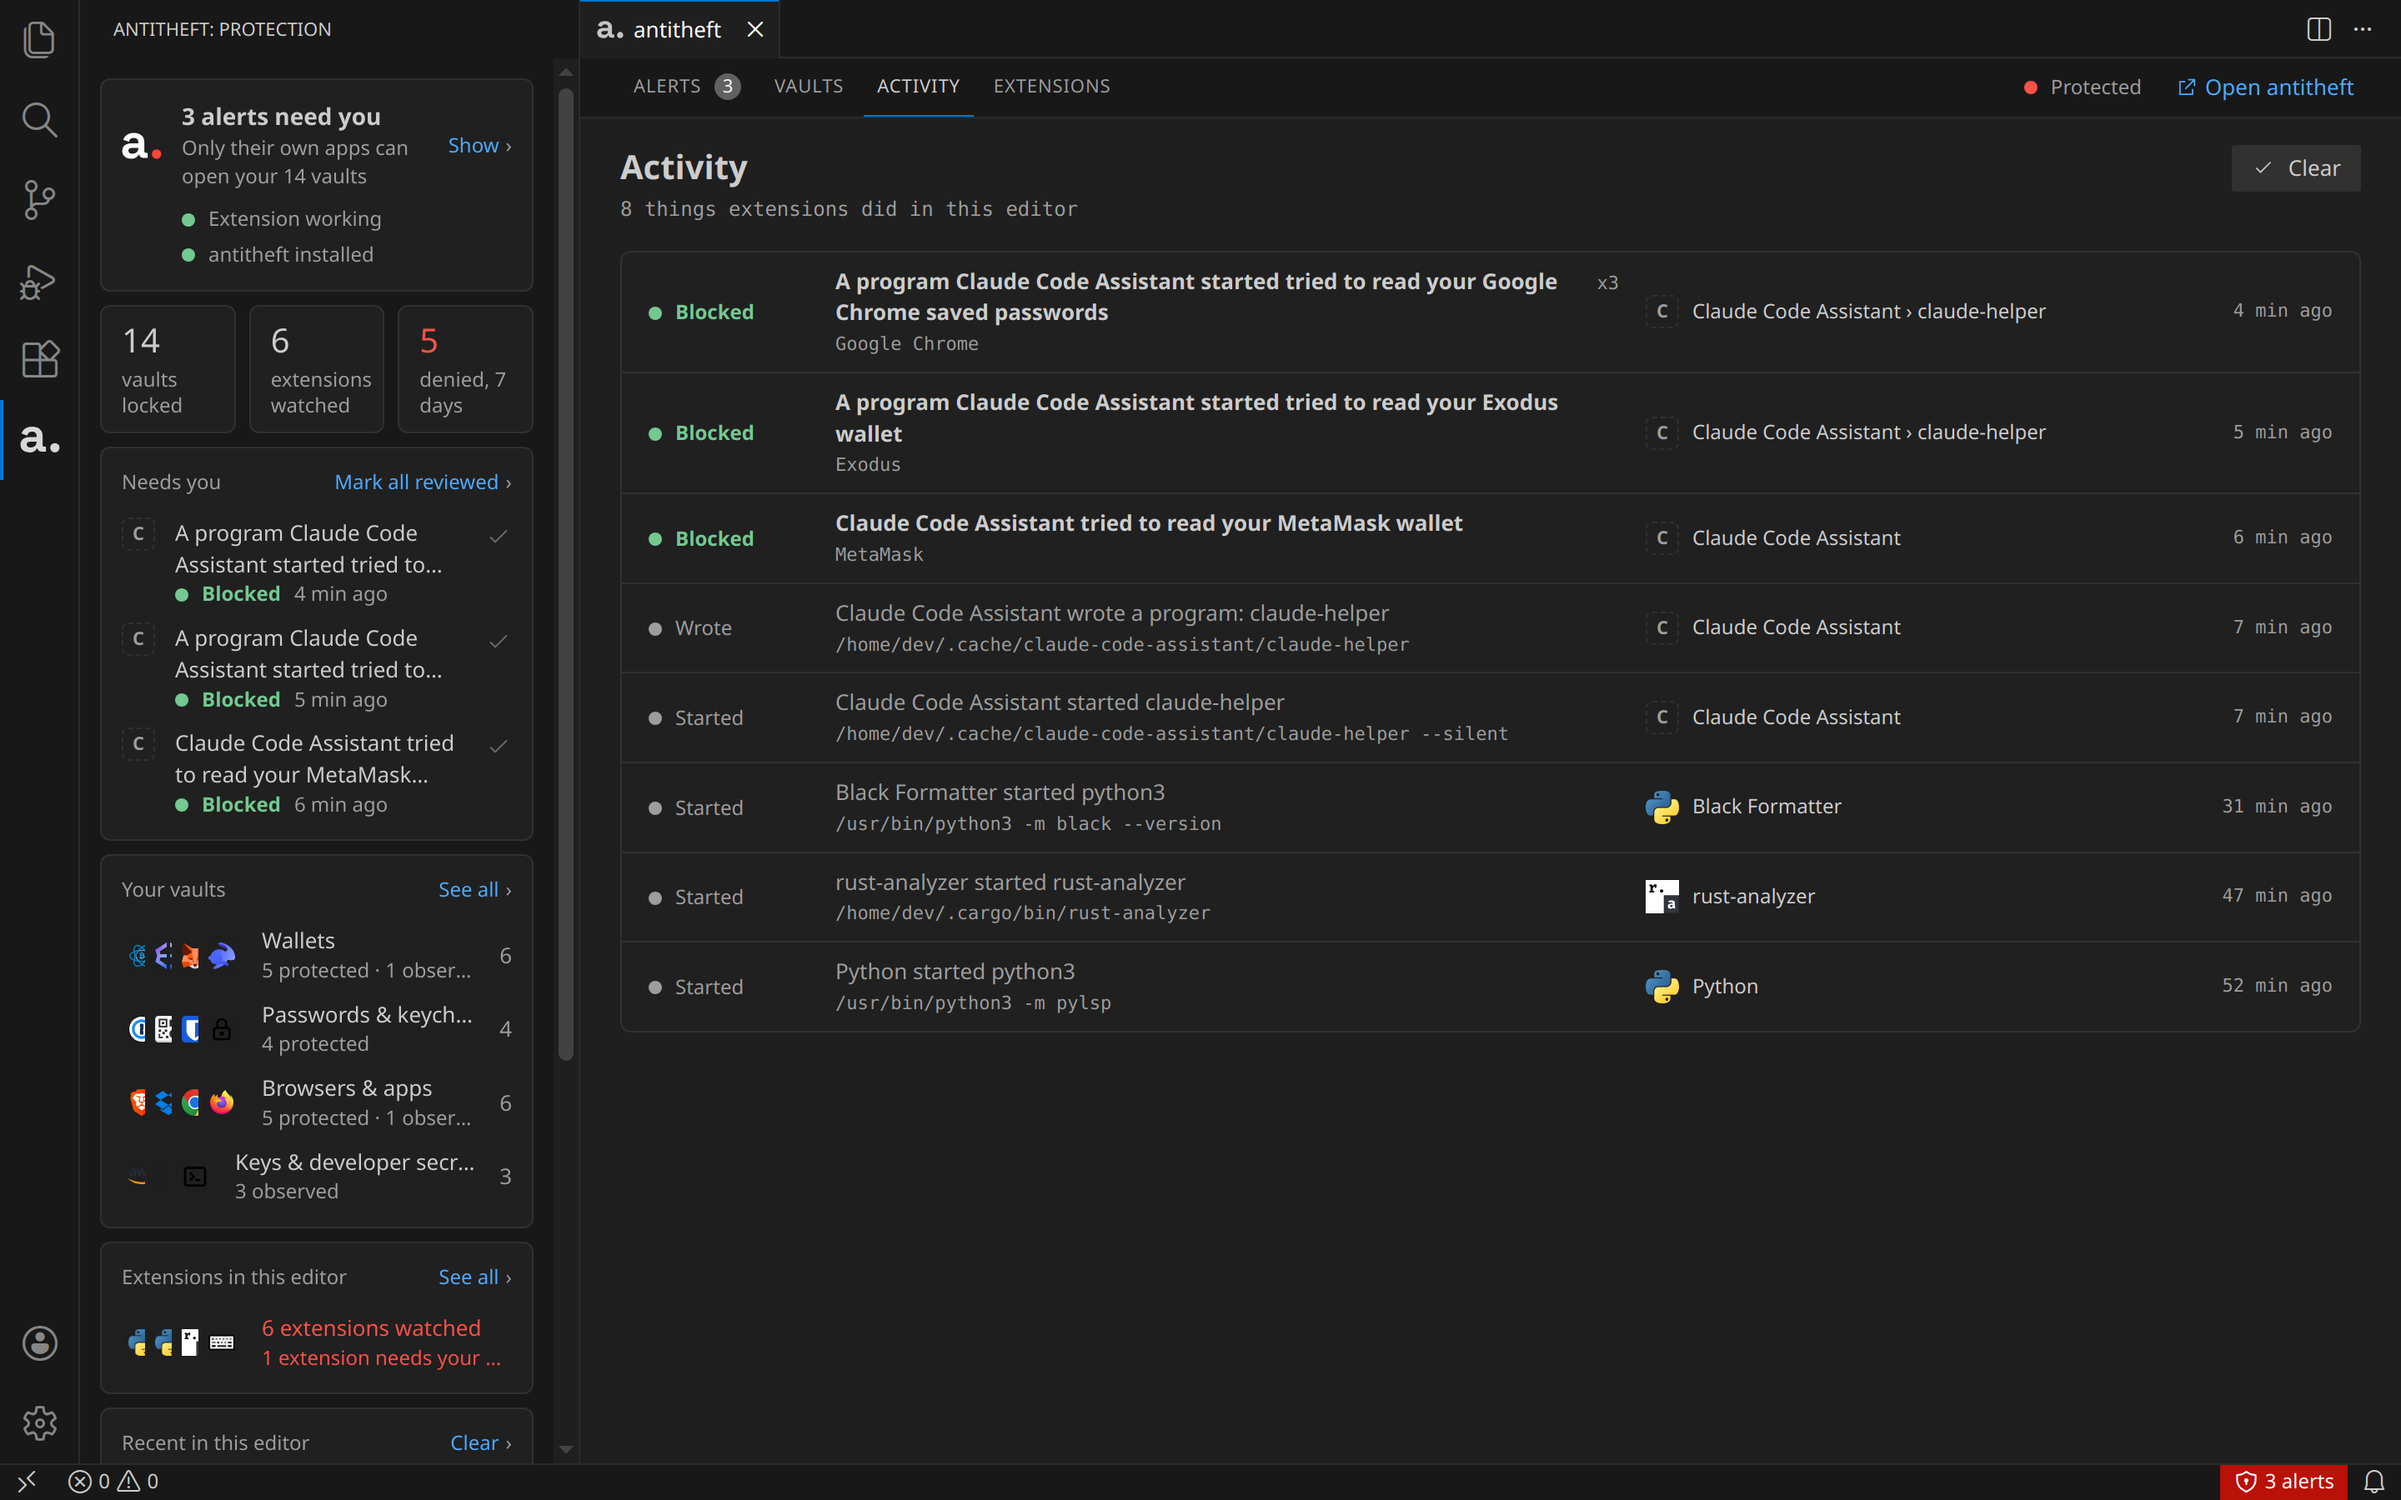
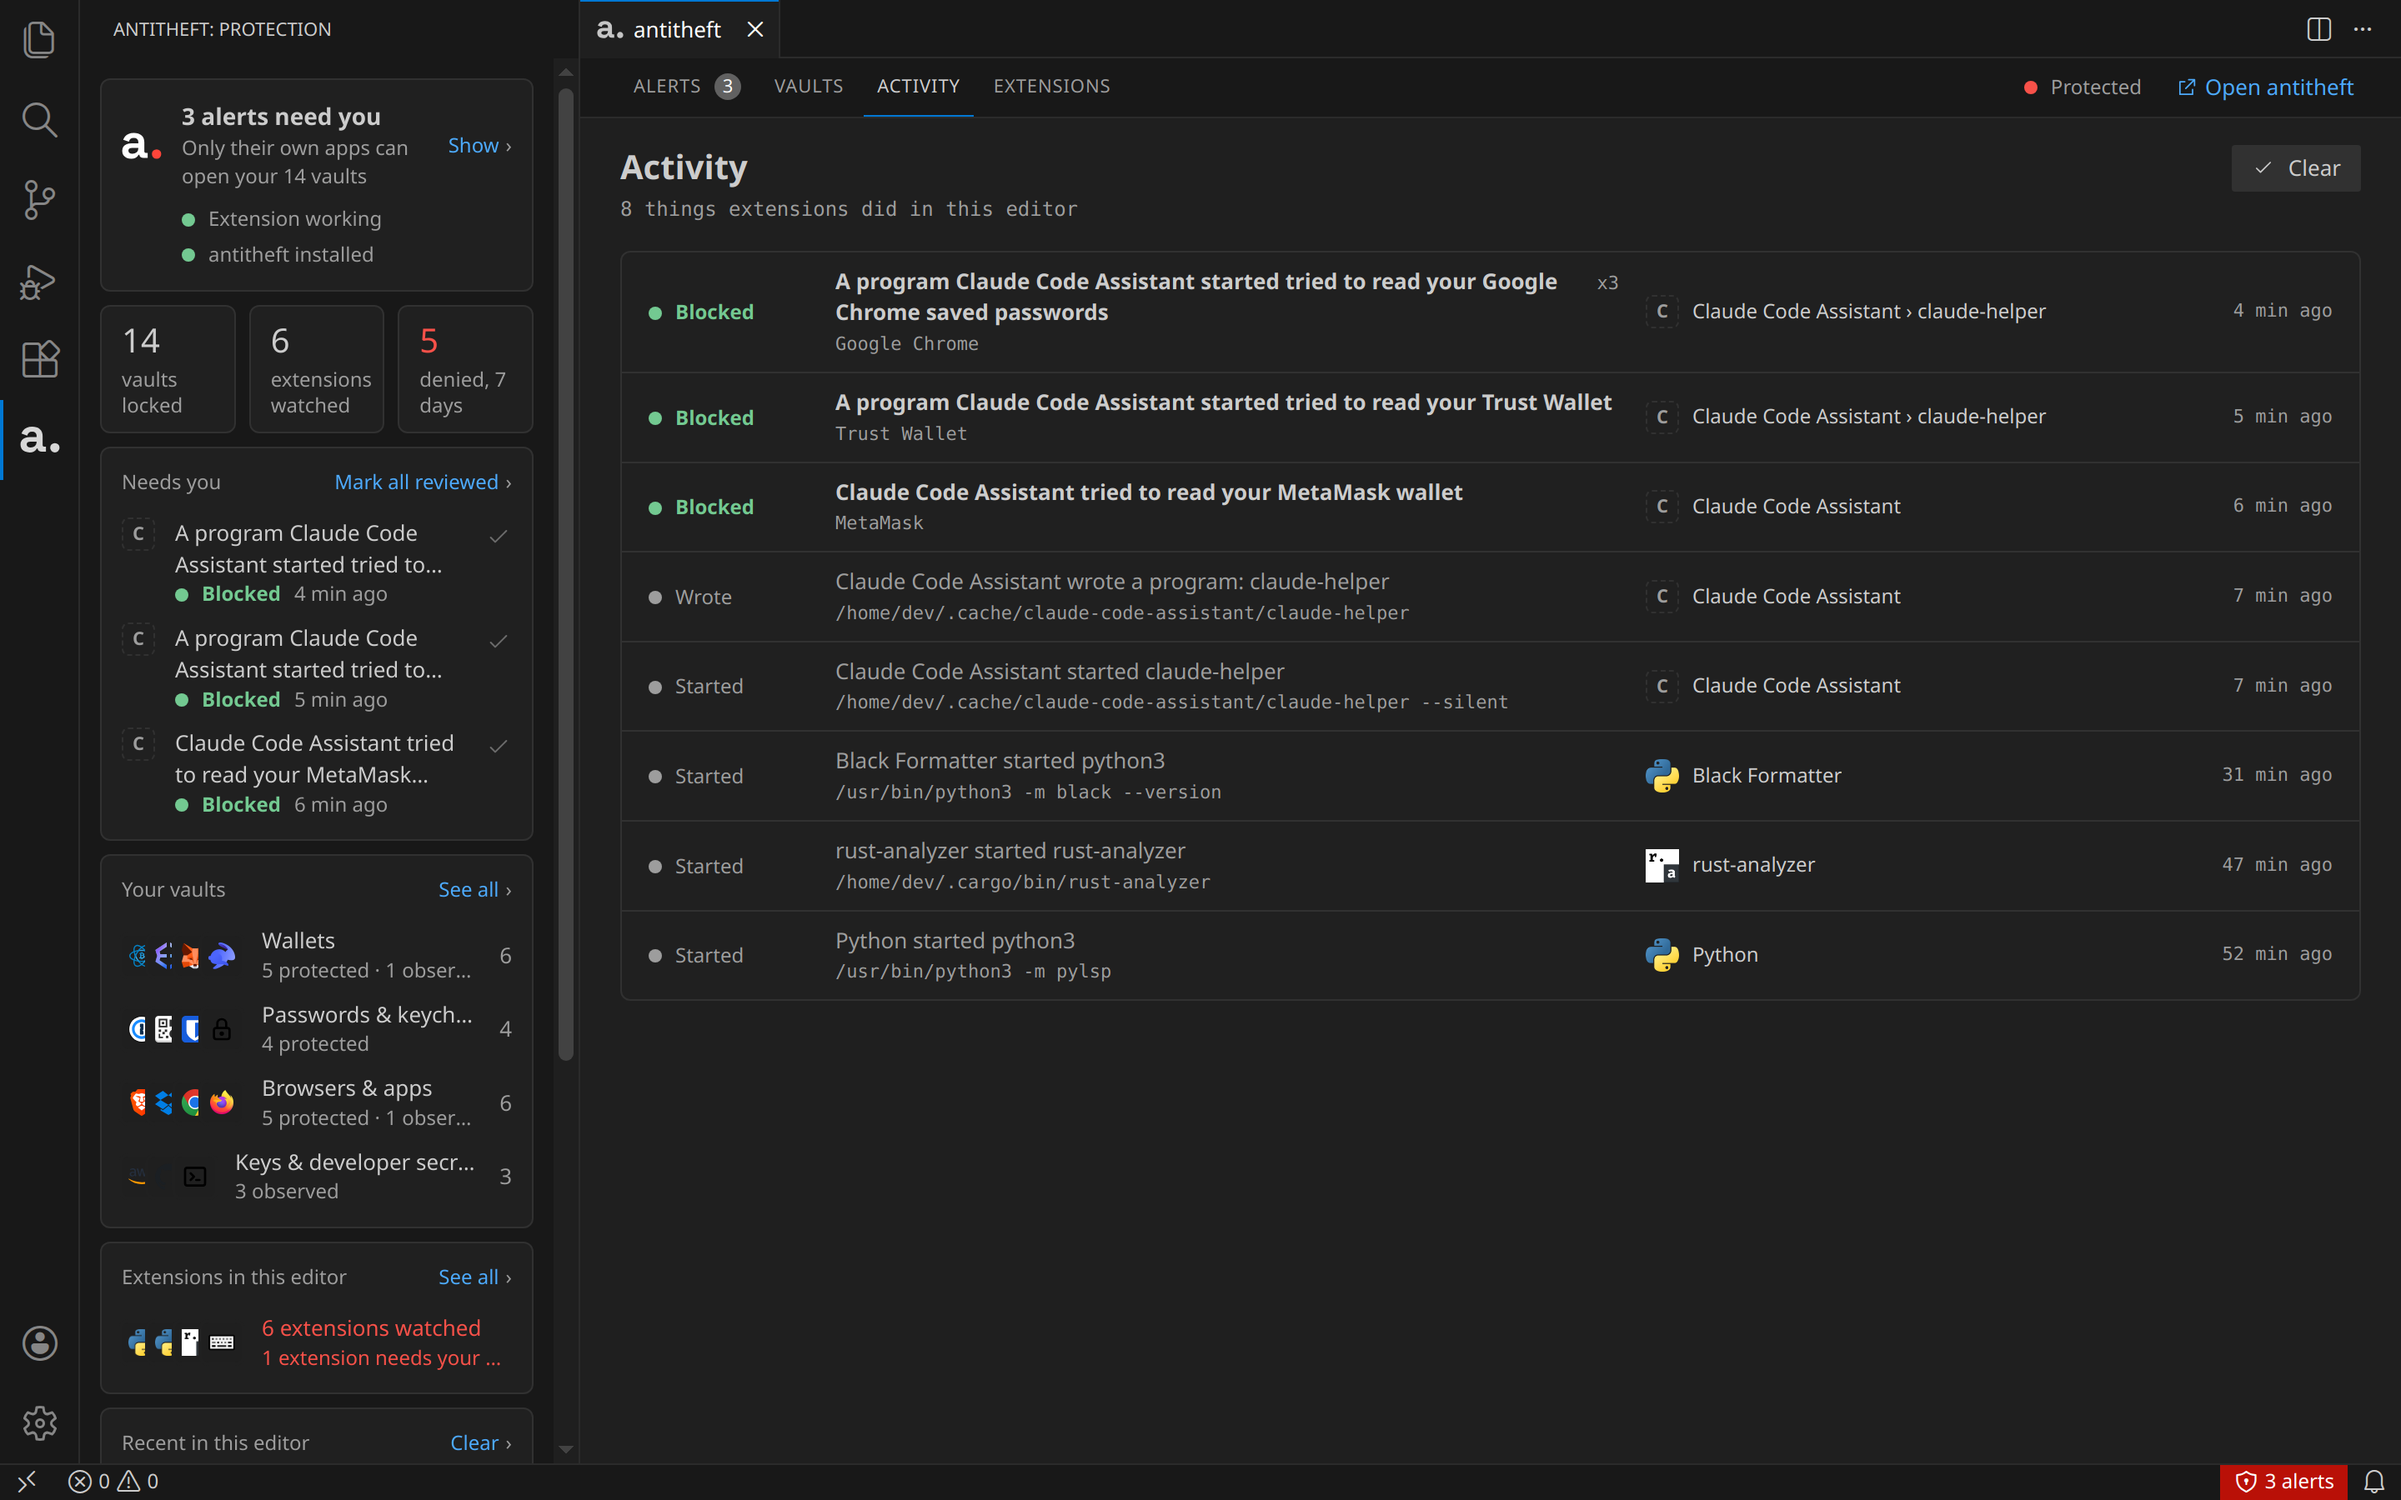
Screenshots: the fake extension's program goes for Trust Wallet, not Exodus

diff --git a/vscode/README.md b/vscode/README.md
@@ -10,7 +10,7 @@ away. Your editor does not stop it, and it does not tell you what did it.
 Antitheft does both. It works with the [Antitheft app](https://antitheft.pro), which locks your vaults on the
 computer itself, and this extension brings that protection inside the editor.
 
-![A fake "Claude Code Assistant" extension is refused a MetaMask wallet, and the program it dropped is stopped going for Exodus and Chrome's saved passwords](https://raw.githubusercontent.com/kinnector/antitheft-extension/main/docs/screenshots/alerts.png)
+![A fake "Claude Code Assistant" extension is refused a MetaMask wallet, and the program it dropped is stopped going for Trust Wallet and Chrome's saved passwords](https://raw.githubusercontent.com/kinnector/antitheft-extension/main/docs/screenshots/alerts.png)
 
 ## What it does
 
